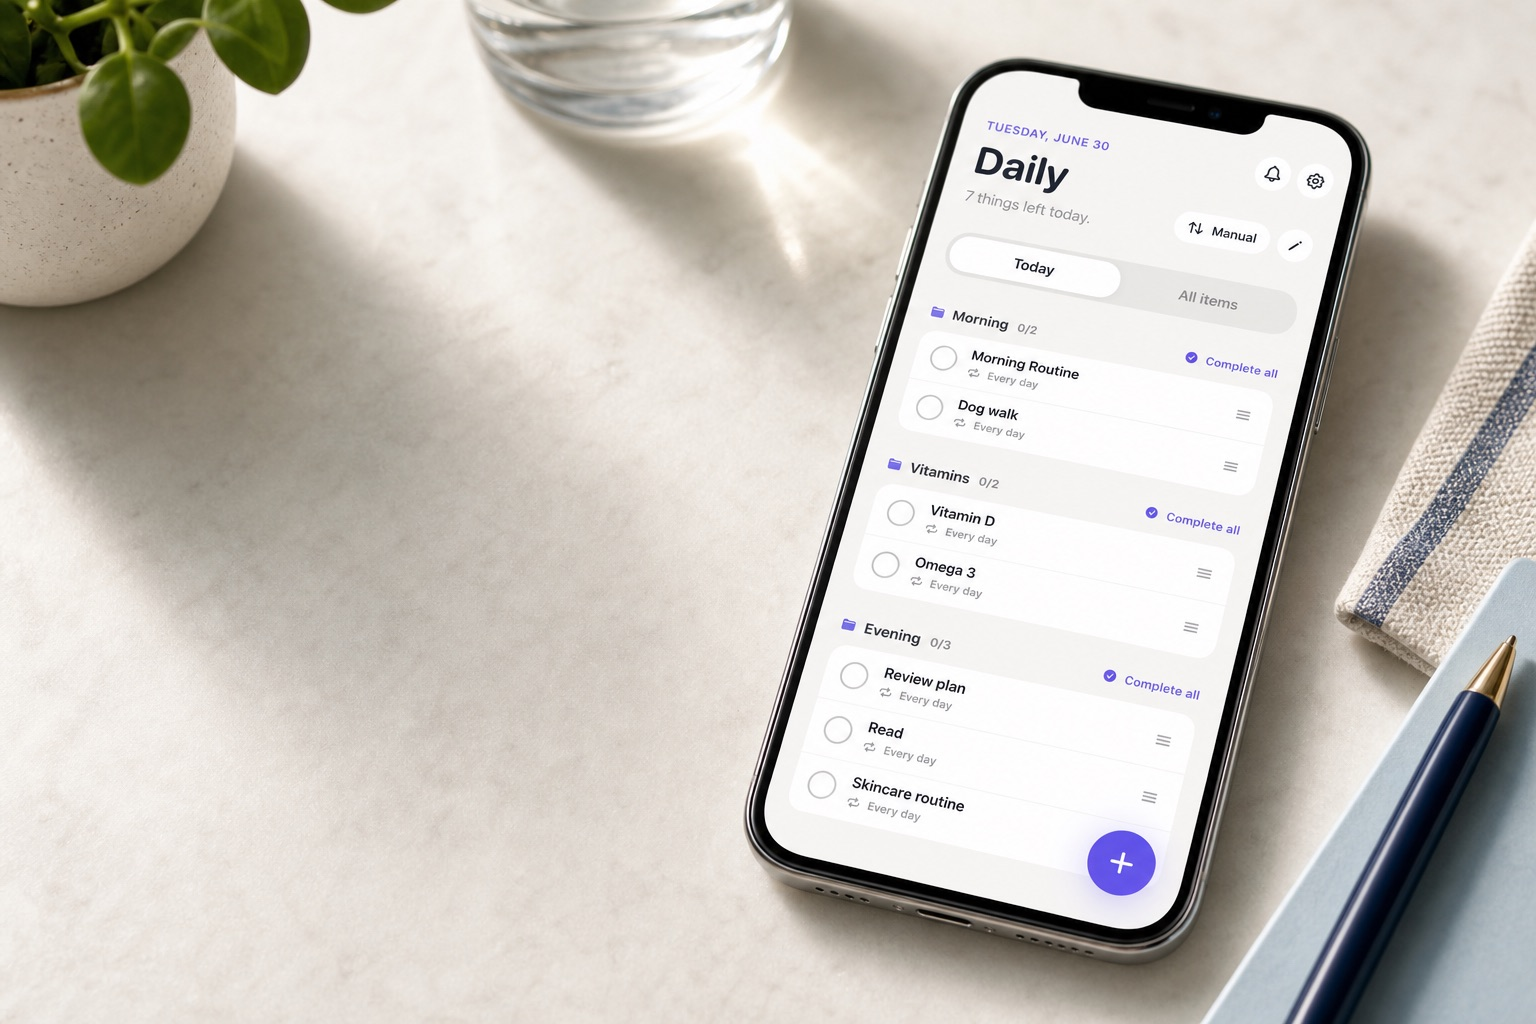
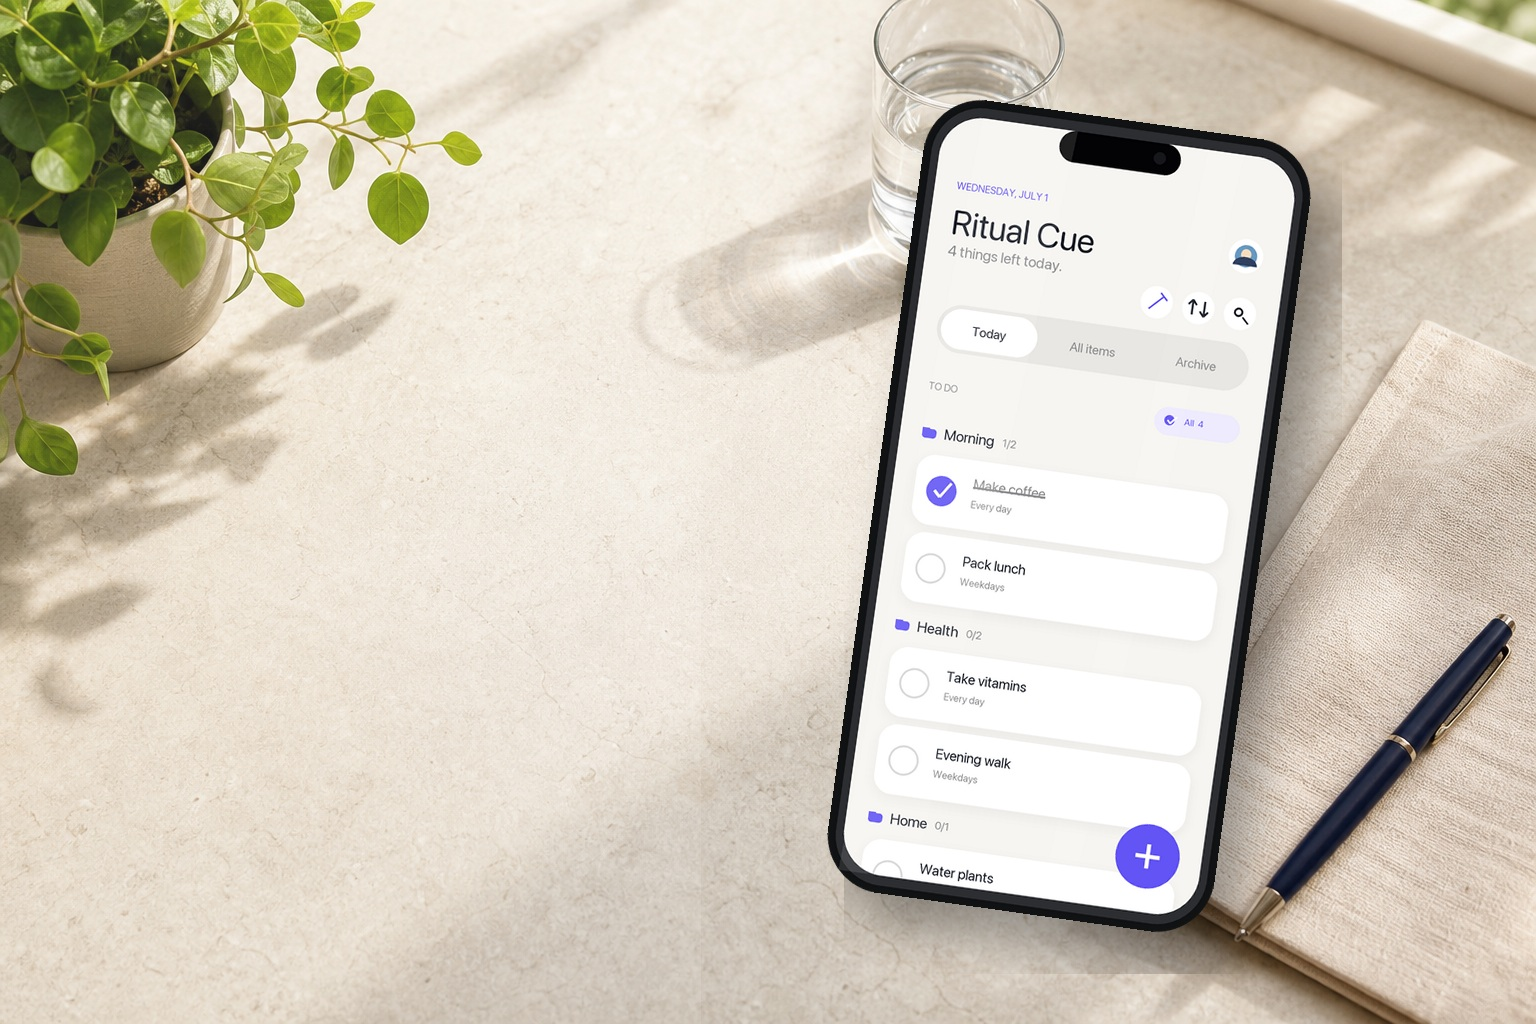
Update landing hero image

diff --git a/server/web/landing.html b/server/web/landing.html
@@ -25,7 +25,7 @@
     <main>
       <section class="landing-hero">
         <picture class="hero-media" aria-hidden="true">
-          <img src="/assets/ritual-cue-hero.jpg" alt="">
+          <img src="/assets/ritual-cue-hero.jpg?v=20260702-current-app" alt="">
         </picture>
         <div class="hero-shade" aria-hidden="true"></div>
         <div class="hero-copy">